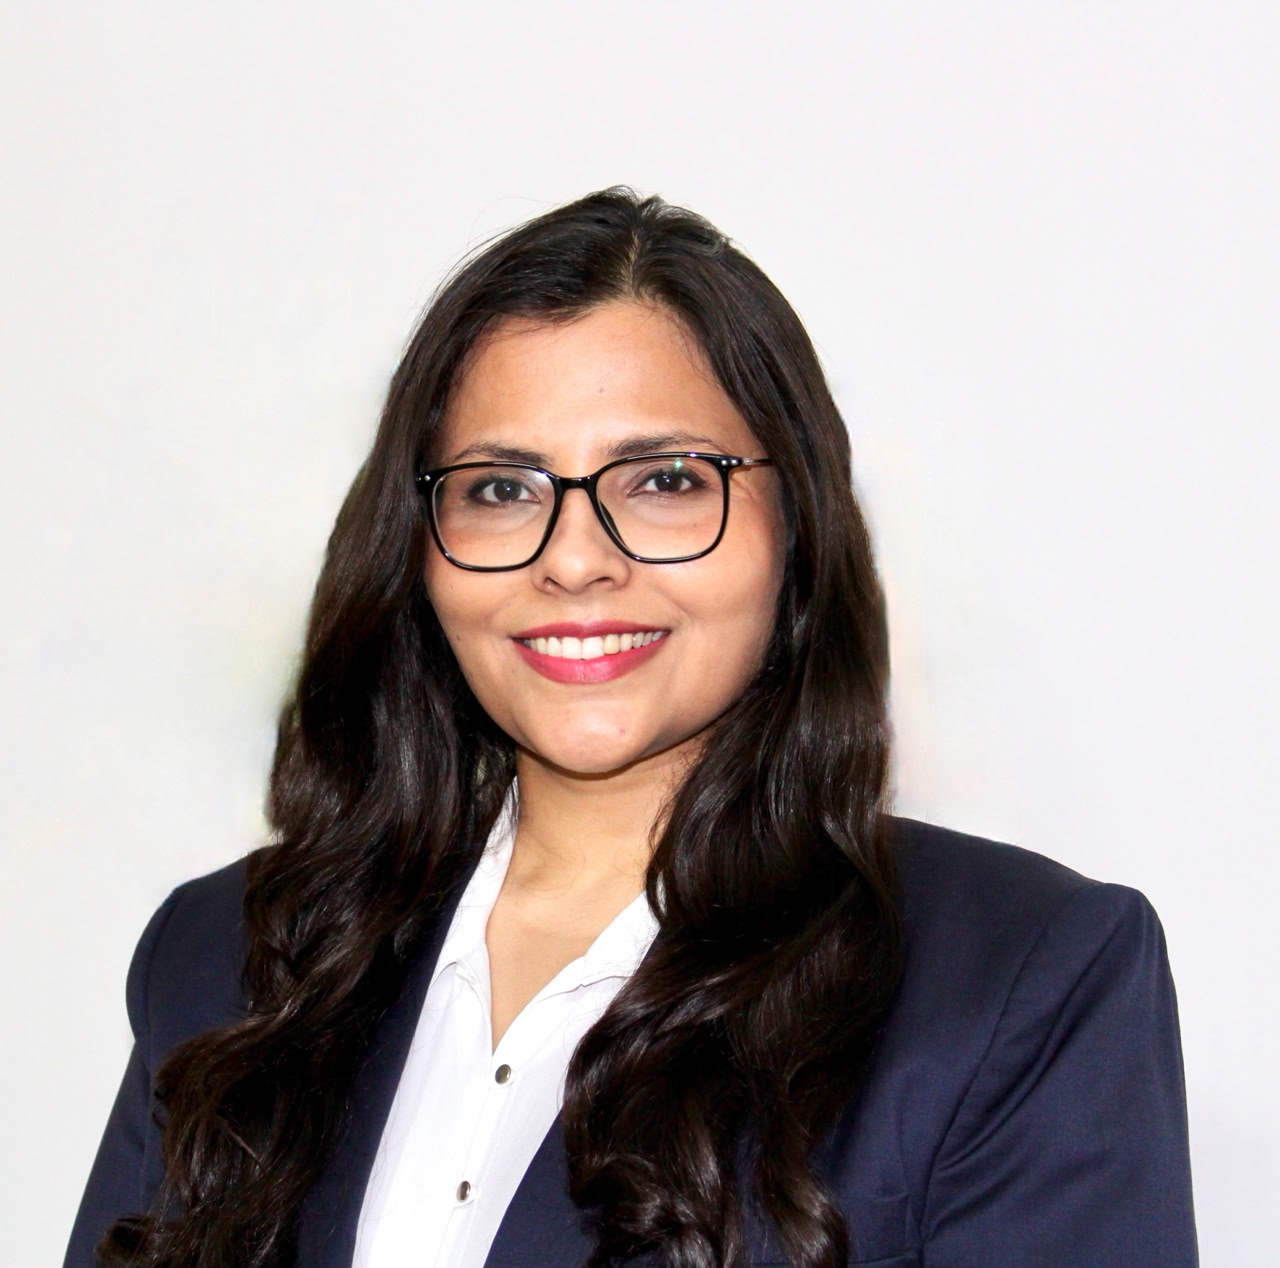
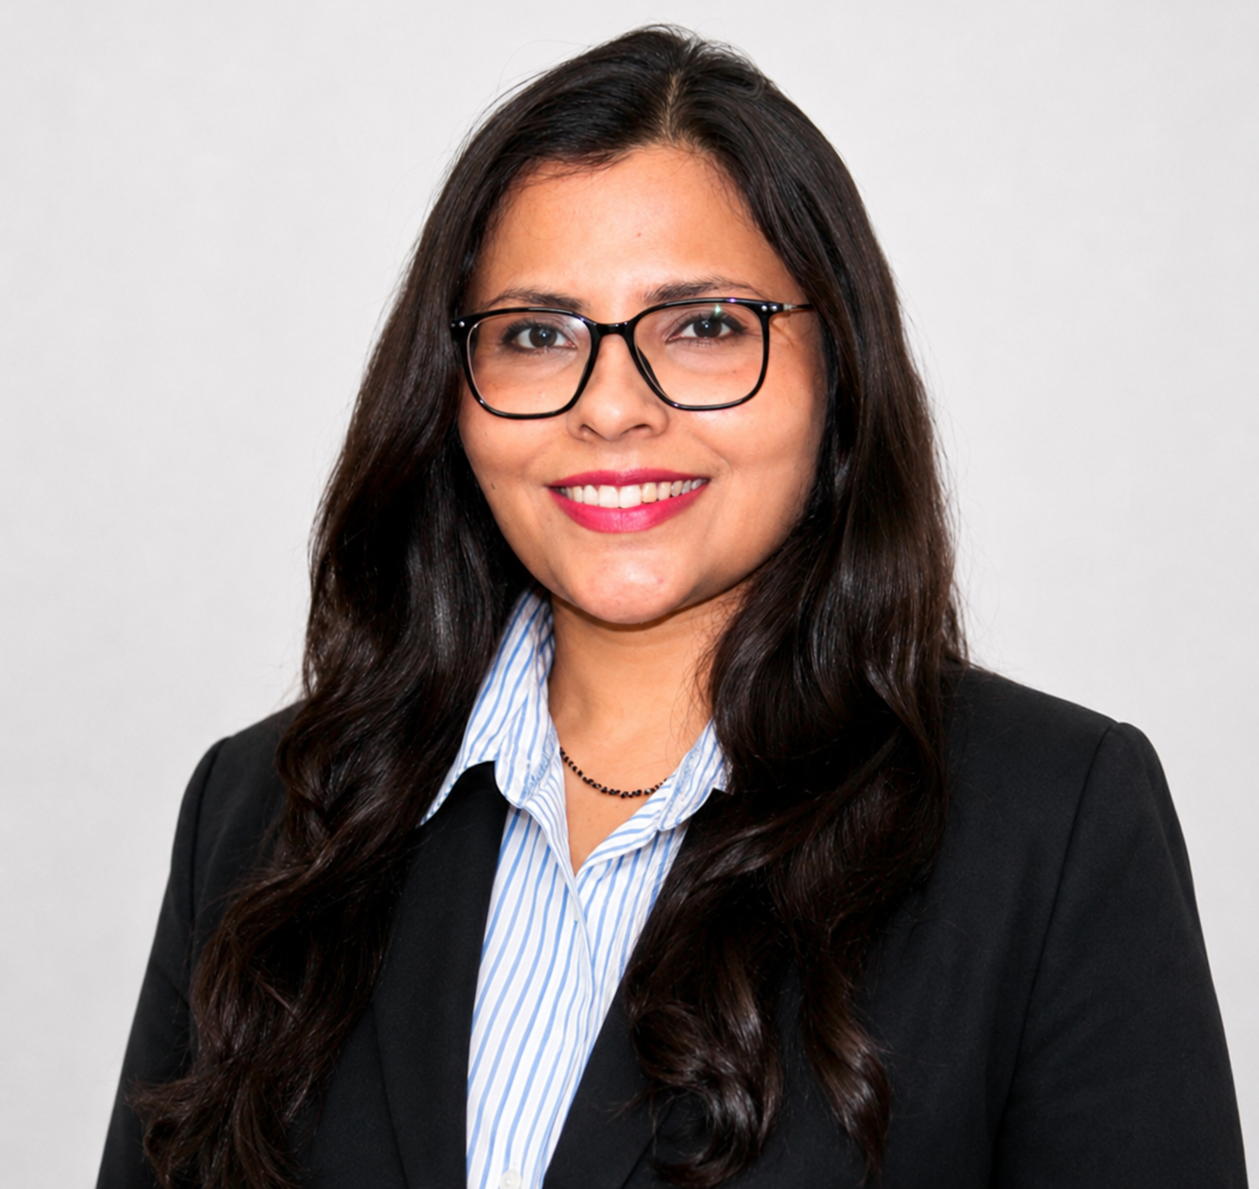
Redesign home hero, add service images, update doctor photos
- Full-width split hero with cream text left, photo right + fade overlay
- New outfit photos for Dr. Vartika, Dr. Preasa, Dr. Shalini, Dr. Milu in marquee
- Add real images to all 12 general dentistry service pages
- Nav mega menu updated with General Dentistry submenu across all pages

diff --git a/index.html b/index.html
@@ -15,7 +15,7 @@
   <link rel="preconnect" href="https://fonts.googleapis.com" />
   <link rel="preconnect" href="https://fonts.gstatic.com" crossorigin />
   <link rel="stylesheet" href="https://fonts.googleapis.com/css2?family=Poppins:wght@300;400;500;600;700&display=swap" />
-  <link rel="stylesheet" href="css/style.css?v=401" />
+  <link rel="stylesheet" href="css/style.css?v=404" />
 </head>
 <body>
   <!-- Navigation -->
@@ -104,33 +104,24 @@
   </nav>
 
   <!-- HERO -->
-  <section class="hero">
-    <div class="hero-grid">
-      <div class="hero-content">
-        <span class="eyebrow">Cosmetic · Implants · Aligners</span>
-        <h1 class="hero-headline">
-          <span class="hero-word"><span>Modern</span></span>
-          <span class="hero-word"><span>dentistry,</span></span>
-          <span class="hero-word"><span>quietly</span></span>
-          <span class="hero-word"><span>done.</span></span>
-        </h1>
-        <p class="hero-subtitle">Cosmetic, restorative, and family care delivered with craft, comfort, and no surprises.</p>
-        <div class="hero-actions">
-          <a href="https://click4appointment.com/clinic-details/drvdentalaesthetics-3361" target="_blank" rel="noopener" class="btn btn-primary">Book And Smile</a>
-          <a href="tel:+919035462760" class="hero-call-link">Call <span>+91 90354 62760</span></a>
-        </div>
+  <section class="hero" style="display:flex; min-height:100vh; background:var(--cream); padding:0; overflow:hidden;">
+    <div class="hero-content" style="flex:0 0 50%; padding:140px 72px 80px; display:flex; flex-direction:column; justify-content:center;">
+      <span class="eyebrow">Cosmetic · Implants · Aligners</span>
+      <h1 class="hero-headline">
+        <span class="hero-word"><span>Modern</span></span>
+        <span class="hero-word"><span>dentistry,</span></span>
+        <span class="hero-word"><span>quietly</span></span>
+        <span class="hero-word"><span>done.</span></span>
+      </h1>
+      <p class="hero-subtitle">Cosmetic, restorative, and family care delivered with craft, comfort, and no surprises.</p>
+      <div class="hero-actions">
+        <a href="https://click4appointment.com/clinic-details/drvdentalaesthetics-3361" target="_blank" rel="noopener" class="btn btn-primary">Book And Smile</a>
+        <a href="tel:+919035462760" class="hero-call-link">Call <span>+91 90354 62760</span></a>
       </div>
-      <div class="hero-visual">
-        <video class="hero-video" autoplay muted loop playsinline>
-          <source src="images/hero-video.mp4" type="video/mp4">
-        </video>
-        <div class="hero-tag">
-          <span class="hero-tag-eyebrow">Our Promise</span>
-          <p class="hero-tag-text">&ldquo;Confidence you can feel in every smile.&rdquo;</p>
-          <div class="hero-tag-divider"></div>
-          <span class="hero-tag-footer">Guided By Care</span>
-        </div>
-      </div>
+    </div>
+    <div style="flex:1; overflow:hidden; position:relative;">
+      <img src="images/hero-main.jpg" alt="North Star Dental" style="width:100%; height:100%; object-fit:cover; object-position:center; display:block;" />
+      <div style="position:absolute;top:0;left:0;bottom:0;width:120px;background:linear-gradient(to right, var(--cream) 0%, transparent 100%); pointer-events:none;"></div>
     </div>
   </section>
 
@@ -342,7 +333,7 @@
         </article>
         <article class="team-card team-card--featured" style="cursor:pointer;" onclick="location.href='dr-vartika-kumari.html'">
           <div class="team-card-photo">
-            <img src="images/dr-vartika.jpg" alt="Dr. Vartika Kumari" loading="lazy" />
+            <img src="images/dr-vartika.jpg?v=4" alt="Dr. Vartika Kumari" loading="lazy" />
           </div>
           <div class="team-card-info">
             <h3 class="team-card-name">Dr. Vartika Kumari</h3>
@@ -351,7 +342,7 @@
         </article>
         <article class="team-card team-card--side team-card--right" onclick="location.href='dr-shalini-shinde.html'" style="cursor:pointer;">
           <div class="team-card-photo">
-            <img src="images/dr-shalini-removebg-preview.png" alt="Dr. Shalini Shinde" loading="lazy" />
+            <img src="images/dr-shalini-new.png" alt="Dr. Shalini Shinde" loading="lazy" />
           </div>
           <div class="team-card-info">
             <h3 class="team-card-name">Dr. Shalini Shinde</h3>
@@ -371,19 +362,19 @@
       <div class="team-marquee-track">
         <!-- Set A -->
         <div class="team-marq-card" style="cursor:pointer;" onclick="location.href='dr-vartika-kumari.html'">
-          <img src="images/dr-vartika.jpg" alt="Dr. Vartika Kumari" loading="lazy" />
+          <img src="images/dr-vartika.jpg?v=4" alt="Dr. Vartika Kumari" loading="lazy" />
           <div class="team-marq-info"><span class="team-marq-role">Lead Orthodontist · All Clinics</span><strong class="team-marq-name">Dr. Vartika Kumari</strong></div>
         </div>
         <div class="team-marq-card" style="cursor:pointer;" onclick="location.href='dr-milu-anna-jose.html'">
-          <img src="images/dr-milu-removebg.png" alt="Dr. Milu Anna Jose" loading="lazy" style="filter:none;" />
+          <img src="images/dr-milu-new.png" alt="Dr. Milu Anna Jose" loading="lazy" style="filter:none;" />
           <div class="team-marq-info"><span class="team-marq-role">Dentist · JP Nagar</span><strong class="team-marq-name">Dr. Milu Anna Jose</strong></div>
         </div>
         <div class="team-marq-card" style="cursor:pointer;" onclick="location.href='dr-shalini-shinde.html'">
-          <img src="images/dr-shalini-removebg-preview.png" alt="Dr. Shalini Shinde" loading="lazy" />
+          <img src="images/dr-shalini-new.png" alt="Dr. Shalini Shinde" loading="lazy" />
           <div class="team-marq-info"><span class="team-marq-role">Pediatric Dentist · JP Nagar</span><strong class="team-marq-name">Dr. Shalini Shinde</strong></div>
         </div>
         <div class="team-marq-card" style="cursor:pointer;" onclick="location.href='dr-preasa-pravasi.html'">
-          <img src="images/dr_neha-removebg-preview.png" alt="Dr. Preasa Pravasi" loading="lazy" />
+          <img src="images/dr-preasa-new.png" alt="Dr. Preasa Pravasi" loading="lazy" />
           <div class="team-marq-info"><span class="team-marq-role">Dentist · JP Nagar</span><strong class="team-marq-name">Dr. Preasa Pravasi</strong></div>
         </div>
         <div class="team-marq-card">
@@ -392,19 +383,19 @@
         </div>
         <!-- Set B (duplicate for seamless loop) -->
         <div class="team-marq-card" style="cursor:pointer;" onclick="location.href='dr-vartika-kumari.html'">
-          <img src="images/dr-vartika.jpg" alt="Dr. Vartika Kumari" loading="lazy" />
+          <img src="images/dr-vartika.jpg?v=4" alt="Dr. Vartika Kumari" loading="lazy" />
           <div class="team-marq-info"><span class="team-marq-role">Lead Orthodontist · All Clinics</span><strong class="team-marq-name">Dr. Vartika Kumari</strong></div>
         </div>
         <div class="team-marq-card" style="cursor:pointer;" onclick="location.href='dr-milu-anna-jose.html'">
-          <img src="images/dr-milu-removebg.png" alt="Dr. Milu Anna Jose" loading="lazy" style="filter:none;" />
+          <img src="images/dr-milu-new.png" alt="Dr. Milu Anna Jose" loading="lazy" style="filter:none;" />
           <div class="team-marq-info"><span class="team-marq-role">Dentist · JP Nagar</span><strong class="team-marq-name">Dr. Milu Anna Jose</strong></div>
         </div>
         <div class="team-marq-card" style="cursor:pointer;" onclick="location.href='dr-shalini-shinde.html'">
-          <img src="images/dr-shalini-removebg-preview.png" alt="Dr. Shalini Shinde" loading="lazy" />
+          <img src="images/dr-shalini-new.png" alt="Dr. Shalini Shinde" loading="lazy" />
           <div class="team-marq-info"><span class="team-marq-role">Pediatric Dentist · JP Nagar</span><strong class="team-marq-name">Dr. Shalini Shinde</strong></div>
         </div>
         <div class="team-marq-card" style="cursor:pointer;" onclick="location.href='dr-preasa-pravasi.html'">
-          <img src="images/dr_neha-removebg-preview.png" alt="Dr. Preasa Pravasi" loading="lazy" />
+          <img src="images/dr-preasa-new.png" alt="Dr. Preasa Pravasi" loading="lazy" />
           <div class="team-marq-info"><span class="team-marq-role">Dentist · JP Nagar</span><strong class="team-marq-name">Dr. Preasa Pravasi</strong></div>
         </div>
         <div class="team-marq-card">

diff --git a/service-cleanings-exams.html b/service-cleanings-exams.html
@@ -124,7 +124,7 @@
         <p>During your exam, our dentists check every surface of each tooth, screen for early signs of gum disease, oral cancer, and bite problems &mdash; and take targeted X-rays only when clinically necessary.</p>
         <p>Catching a cavity when it is small means a simple filling. Finding it later can mean a crown or root canal. Regular visits simply cost less &mdash; in time, money, and discomfort.</p>
       </div>
-      <div class="services-cat-image" style="background: var(--bone);"></div>
+      <div class="services-cat-image" style="background-image: url('images/service-cleanings-exams.jpg?v=2'); background-size: cover; background-position: center;"></div>
     </div>
   </section>
 

diff --git a/service-crowns-bridges.html b/service-crowns-bridges.html
@@ -124,7 +124,7 @@
         <p>A dental bridge fills the gap left by one or more missing teeth. It is anchored to the teeth on either side of the gap and is a fixed, non-removable solution that looks and functions like natural teeth.</p>
         <p>We use high-quality porcelain and zirconia materials that are colour-matched to your surrounding teeth. The result is a seamless restoration that blends naturally into your smile.</p>
       </div>
-      <div class="services-cat-image" style="background: var(--bone);"></div>
+      <div class="services-cat-image" style="background-image: url('images/service-crowns-bridges.jpg'); background-size: cover; background-position: center;"></div>
     </div>
   </section>
 

diff --git a/service-dental-veneers.html b/service-dental-veneers.html
@@ -124,7 +124,7 @@
         <p>Porcelain veneers are crafted in a dental lab and are exceptionally lifelike &mdash; they reflect light the same way natural enamel does. Composite veneers can be sculpted chairside in a single appointment and are a more affordable alternative.</p>
         <p>Preparation is minimal. A thin layer of enamel is removed to create space for the veneer, and an impression is taken. Temporary veneers protect your teeth while the permanent ones are fabricated. The final bonding appointment is transformative.</p>
       </div>
-      <div class="services-cat-image" style="background: var(--bone);"></div>
+      <div class="services-cat-image" style="background-image: url('images/service-dental-veneers.jpg?v=2'); background-size: cover; background-position: center;"></div>
     </div>
   </section>
 

diff --git a/service-dentures.html b/service-dentures.html
@@ -124,7 +124,7 @@
         <p>Partial dentures fill gaps between remaining teeth and are held in place with clasps or precision attachments. Complete dentures replace all the teeth on an arch and rest on the gum tissue.</p>
         <p>We take detailed impressions and use high-quality acrylic and porcelain materials to create dentures that look natural and fit securely. Multiple fitting appointments ensure we get the fit right before the final set is delivered.</p>
       </div>
-      <div class="services-cat-image" style="background: var(--bone);"></div>
+      <div class="services-cat-image" style="background-image: url('images/service-dentures.jpg?v=2'); background-size: cover; background-position: center;"></div>
     </div>
   </section>
 

diff --git a/service-family-dentistry.html b/service-family-dentistry.html
@@ -124,7 +124,7 @@
         <p>For young children, we focus on building a positive relationship with the dental chair &mdash; gentle, unhurried, and full of encouragement. Good habits formed early protect teeth for a lifetime.</p>
         <p>For adults and seniors, we address the full picture &mdash; gum health, restorations, cosmetic concerns, and maintenance &mdash; all in a single convenient location.</p>
       </div>
-      <div class="services-cat-image" style="background: var(--bone);"></div>
+      <div class="services-cat-image" style="background-image: url('images/service-family-dentistry.jpg'); background-size: cover; background-position: center;"></div>
     </div>
   </section>
 

diff --git a/service-gum-disease.html b/service-gum-disease.html
@@ -124,7 +124,7 @@
         <p>Early-stage treatment involves a deep cleaning called scaling and root planing, which removes tartar and bacteria from below the gumline. For more advanced cases, we may recommend medicated rinses or referral to a specialist.</p>
         <p>After active treatment, a maintenance schedule every three to four months &mdash; rather than the standard six &mdash; is usually recommended to keep the disease from progressing.</p>
       </div>
-      <div class="services-cat-image" style="background: var(--bone);"></div>
+      <div class="services-cat-image" style="background-image: url('images/service-gum-disease.jpg?v=2'); background-size: cover; background-position: center;"></div>
     </div>
   </section>
 

diff --git a/service-night-guards.html b/service-night-guards.html
@@ -124,7 +124,7 @@
         <p>Sports mouth guards protect teeth, gums, lips, and jaw from impact during contact sports. A custom-fitted guard offers significantly better protection than a standard boil-and-bite option from a pharmacy &mdash; and is far more comfortable to wear.</p>
         <p>Both types are made from impressions of your teeth, ensuring a precise fit that stays in place and does not interfere with breathing. A guard that does not fit properly simply does not get worn.</p>
       </div>
-      <div class="services-cat-image" style="background: var(--bone);"></div>
+      <div class="services-cat-image" style="background-image: url('images/service-night-guards.jpg'); background-size: cover; background-position: center;"></div>
     </div>
   </section>
 

diff --git a/service-sleep-apnea.html b/service-sleep-apnea.html
@@ -124,7 +124,7 @@
         <p>For mild to moderate sleep apnea, a custom mandibular advancement device (MAD) is a proven, effective alternative to CPAP therapy. The appliance holds the lower jaw slightly forward during sleep, keeping the airway open.</p>
         <p>We work alongside sleep physicians to ensure appropriate diagnosis and treatment. An oral appliance made by a dentist is far more comfortable and travel-friendly than CPAP equipment, and compliance rates are significantly higher.</p>
       </div>
-      <div class="services-cat-image" style="background: var(--bone);"></div>
+      <div class="services-cat-image" style="background-image: url('images/service-sleep-apnea.jpg'); background-size: cover; background-position: center;"></div>
     </div>
   </section>
 

diff --git a/service-smile-makeover.html b/service-smile-makeover.html
@@ -124,7 +124,7 @@
         <p>Common combinations include whitening followed by veneers, alignment with clear aligners followed by composite bonding, or crowns and implants alongside a deep clean. The plan depends entirely on your starting point and goals.</p>
         <p>We present your full treatment plan with timelines and costs upfront. There are no surprises, and you can choose to do everything at once or in phases that suit your schedule and budget.</p>
       </div>
-      <div class="services-cat-image" style="background: var(--bone);"></div>
+      <div class="services-cat-image" style="background-image: url('images/service-smile-makeover.jpg?v=2'); background-size: cover; background-position: center;"></div>
     </div>
   </section>
 

diff --git a/service-teeth-whitening.html b/service-teeth-whitening.html
@@ -124,7 +124,7 @@
         <p>We offer two options: in-clinic whitening, which uses a higher-concentration gel activated under a light for immediate results; and take-home whitening kits with custom-fitted trays and a prescription-strength gel used over two weeks.</p>
         <p>Before any whitening treatment, we check that your teeth and gums are healthy, screen for sensitivity, and set realistic expectations based on the cause of your discolouration. Whitening works best on natural tooth enamel &mdash; not on crowns, veneers, or composite fillings.</p>
       </div>
-      <div class="services-cat-image" style="background: var(--bone);"></div>
+      <div class="services-cat-image" style="background-image: url('images/service-teeth-whitening.jpg?v=2'); background-size: cover; background-position: center;"></div>
     </div>
   </section>
 

diff --git a/service-tmj-therapy.html b/service-tmj-therapy.html
@@ -124,7 +124,7 @@
         <p>Our approach starts with a thorough examination of your jaw movement, bite, and muscles. We assess whether your symptoms stem from the joint, the muscles, or a combination, and design treatment accordingly.</p>
         <p>Common treatments include custom-fitted occlusal splints worn at night, bite adjustment, physical therapy guidance, and where needed, referral to an appropriate specialist. Many patients experience significant relief within weeks.</p>
       </div>
-      <div class="services-cat-image" style="background: var(--bone);"></div>
+      <div class="services-cat-image" style="background-image: url('images/service-tmj-therapy.jpg'); background-size: cover; background-position: center;"></div>
     </div>
   </section>
 